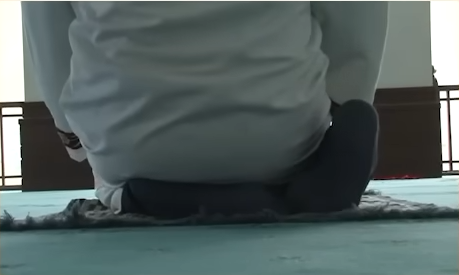
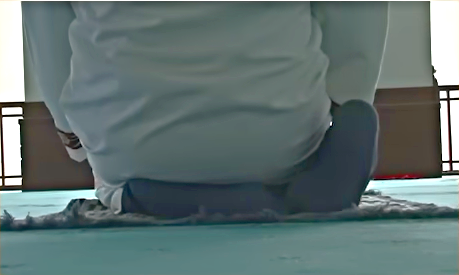
v7
v7

diff --git a/assets/veri.js b/assets/veri.js
@@ -247,14 +247,17 @@ const ABDEST_GIRIS = 'Kolları dirseklerin üstüne kadar sıvayın. Suyun deriy
 const ABDEST_FARZ = 'Abdestte yüzü, dirseklerle birlikte iki kolu ve aşık kemikleriyle birlikte iki ayağı birer defa yıkamak; başın en az dörtte birini mesh etmek farzdır. Yıkanacak uzuvların üçer defa yıkanması sünnettir; mesh bir defa yapılır. Yıkama, suyun uzva ulaştırılmasıdır; mesh ise ıslak elle silmektir.';
 
 const KAYNAKLAR = [
+  ['İslam ve İhsan — Erler için namazın kılınışı (video listesi)', 'https://www.youtube.com/watch?v=o_Pln7TKyTQ&list=PL18zFy6BUOQhRmTNqTemQJim4cczAhAl8'],
+  ['İslam ve İhsan — Bacılar için namazın kılınışı (video listesi)', 'https://www.youtube.com/watch?v=BWBVl1rGwNU&list=PL18zFy6BUOQg57AISQmNlFw1r5YOdC2TK'],
+  ['Diyanet İşleri Başkanlığı — Namaz portalı', 'https://namaz.diyanet.gov.tr/'],
+  ['Diyanet İşleri Başkanlığı — Namaz İlmihali (PDF)', 'https://namaz.diyanet.gov.tr/namaz/html/kutuphane/HTML/NamazIlmihali/assets/common/downloads/publication.pdf'],
   ['Din İşleri Yüksek Kurulu — Abdestin alınışı', 'https://kurul.diyanet.gov.tr/tr/fetva/abdest-nedir-ve-nasil-alinir/0193c42d-4493-7cd5-0d48-874d6be1a7d3'],
-  ['Diyanet Haber — Abdestle ilgili bilgiler', 'https://www.diyanethaber.com.tr/abdest-ile-ilgili-bilinmesi-gerekenler'],
   ['Din İşleri Yüksek Kurulu — Başörtüsü ve mesh', 'https://kurul.diyanet.gov.tr/tr/video/abdest-alirken-basortusunun-uzerinden-bas-mesh-edilebilir-mi/019d0027-3362-7114-ad16-483fffece9e6'],
-  ['Diyanet — Er ve bacı duruşları', 'https://kurul.diyanet.gov.tr/tr/fetva/kilinis-bakimindan-kadinlarin-namazi-ile-erkeklerin-namazi-arasinda-ne-gibi-farklar-bulunmaktadir/0193c42d-64a5-7ba1-9af3-f9f4a7f97245'],
-  ['Diyanet — Namazda besmele', 'https://kurul.diyanet.gov.tr/tr/fetva/namazda-fatihadan-sonra-okunacak-ayet-veya-sureler-icin-besmele-cekilir-mi/0193c42d-4fd1-7daa-1cd8-e3e31c2535c1'],
-  ['Diyanet — Secdede ayakların yerleşimi', 'https://www.diyanet.gov.tr/icerik/10151']
+  ['Din İşleri Yüksek Kurulu — Er ve bacı duruşları', 'https://kurul.diyanet.gov.tr/tr/fetva/kilinis-bakimindan-kadinlarin-namazi-ile-erkeklerin-namazi-arasinda-ne-gibi-farklar-bulunmaktadir/0193c42d-64a5-7ba1-9af3-f9f4a7f97245'],
+  ['Din İşleri Yüksek Kurulu — Namazda besmele', 'https://kurul.diyanet.gov.tr/tr/fetva/namazda-fatihadan-sonra-okunacak-ayet-veya-sureler-icin-besmele-cekilir-mi/0193c42d-4fd1-7daa-1cd8-e3e31c2535c1'],
+  ['Diyanet İşleri Başkanlığı — Secdede ayakların yerleşimi', 'https://www.diyanet.gov.tr/icerik/10151']
 ];
-const KAYNAK_NOTU = "Kur'an-ı Kerim âyetlerinin Türkçe meali Prof. Dr. Ömer Çelik mealinden alınmıştır. Sübhâneke, Ettehiyyâtü, Salli–Bârik ve Rabbenâ dualarının Arapça metni ve anlamı Millî Eğitim Bakanlığı'nın “Namaz Duaları ve Sureleri” kaynağına dayanmaktadır. Kadın–erkek duruş farkları Diyanet İşleri Başkanlığı'nın resmî açıklamasından alınmıştır.";
+const KAYNAK_NOTU = "Kur'an-ı Kerim âyetlerinin Türkçe meali Prof. Dr. Ömer Çelik mealinden alınmıştır. Sübhâneke, Ettehiyyâtü, Salli–Bârik ve Rabbenâ dualarının Arapça metni ve anlamı Millî Eğitim Bakanlığı'nın “Namaz Duaları ve Sureleri” kaynağına dayanmaktadır. Kadın–erkek duruş farkları Diyanet İşleri Başkanlığı'nın resmî açıklamasından alınmıştır. Er ve bacı duruş fotoğrafları, İslam ve İhsan kanalının namaz kılınışı videolarından alınmıştır.";
 
 /* Ses kayıtları — Er görünümünde er sesi, Bacı görünümünde bacı sesi çalar.
    Okunuş (Arapça): assets/ses/okunus/er|baci/<ad>.mp3 · Anlam (Türkçe): assets/ses/anlam/er|baci/<ad>.mp3

diff --git a/assets/uygulama.js b/assets/uygulama.js
@@ -193,13 +193,8 @@ function abdestKaresi(n) {
 
 /* ---------- Ekranlar ---------- */
 function anaSayfa() {
-  const devam = (() => {
-    const n = parseInt(oku('namaz_son_namaz', ''), 10), a = parseInt(oku('namaz_son_abdest', ''), 10);
-    const son = oku('namaz_son', '');
-    if (son === 'namaz' && n > 0) return { href: `#/namaz/${n + 1}`, ad: '2 Rekât Namaz', adim: `Adım ${n + 1} / ${R.NAMAZ.length} · ${R.NAMAZ[n].ad}` };
-    if (son === 'abdest' && a > 0) return { href: `#/abdest/${a + 1}`, ad: 'Abdest', adim: `Adım ${a + 1} / ${R.ABDEST.length} · ${R.ABDEST[a].ad}` };
-    return null;
-  })();
+  /* Kaldığı yerden devam özelliği kaldırıldı: ana sayfa her zaman baştan başlar. */
+  const devam = null;
   return `<main class="ekran ana" id="icerik">
     <header class="ana-bas">
       <div><h1 class="dev-baslik">Namaz Rehberi</h1><p class="altin-alt">Adım Adım Öğrenin</p></div>
@@ -470,11 +465,8 @@ function ciz(animasyon = true) {
     hedef?.classList.add('gir-' + yon);
   }
   if (r.i !== undefined) {
-    yaz('namaz_son', r.tur);
-    yaz('namaz_son_' + r.tur, String(r.i));
     onPreload(r.tur, r.i + 1);
   }
-  if (r.bitti) { yaz('namaz_son', ''); }
   onceki = { tur: r.tur, i: r.i ?? -1 };
   Ses.hazirla(app);
   if (animasyon) {
@@ -571,5 +563,8 @@ app.addEventListener('touchend', e => {
   else { const g = $('.alt-cubuk .yuvarlak'); if (g && !g.classList.contains('pasif')) g.click(); }
 }, { passive: true });
 
+/* Her açılışta baştan: eski "kaldığı yer" kayıtları silinir; adres bir adımı gösteriyorsa ana sayfa açılır. */
+try { Object.keys(localStorage).filter(k => k.startsWith('namaz_son')).forEach(k => localStorage.removeItem(k)); } catch (e) {}
+if (/^#\/?[a-z]+\/(\d+|bitti)/.test(location.hash)) history.replaceState(null, '', location.pathname + location.search + '#/');
 ciz();
 })();
